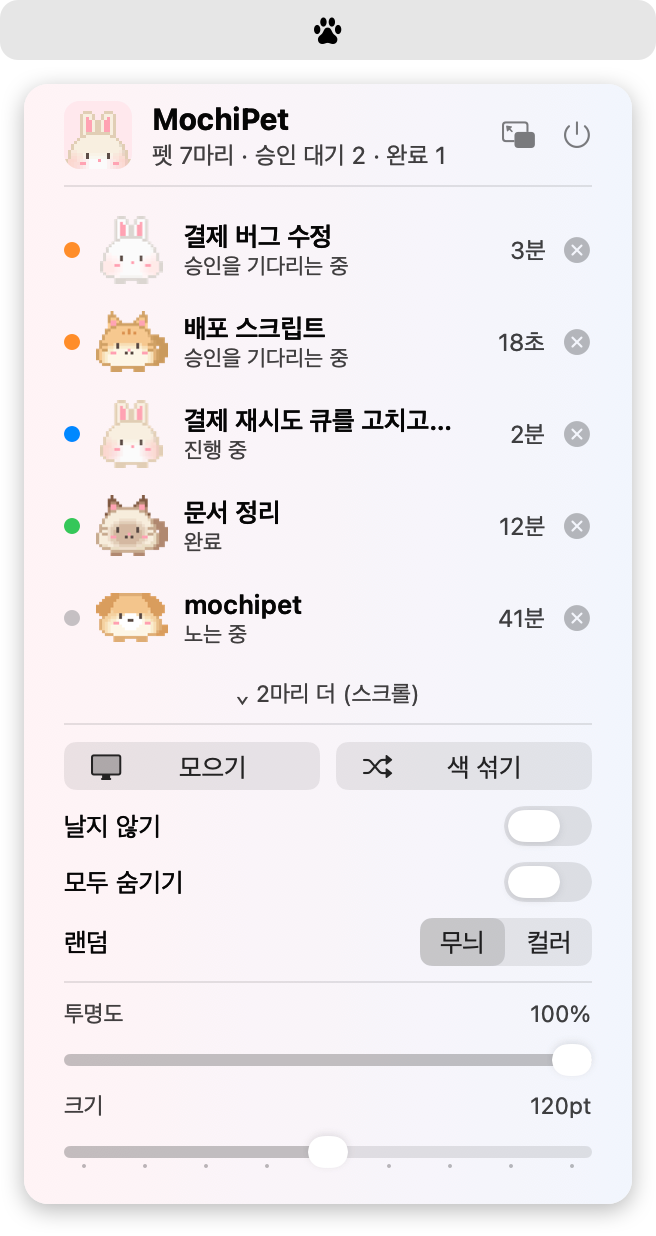
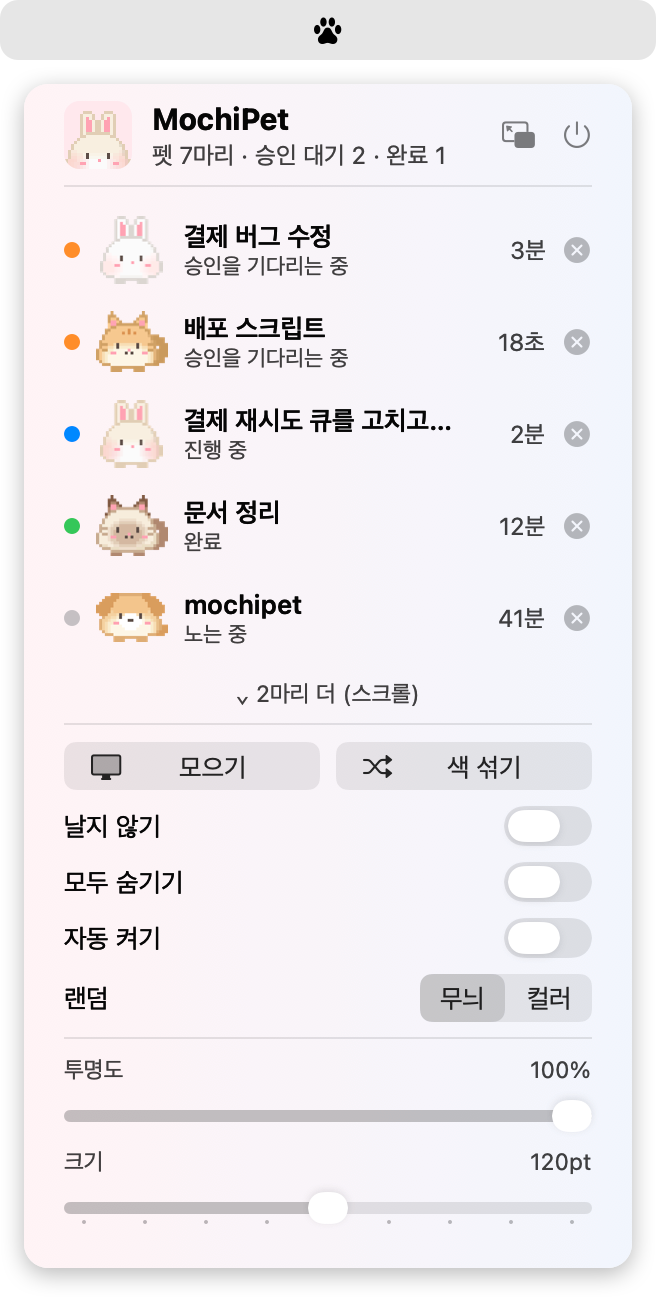
feat: 새 세션에 펫을 자동으로 켜는 스위치를 넣음
* 메뉴 막대에 "자동 켜기" 스위치를 넣음. 세션마다 /pet on 을 치지 않아도 되게 하려는 것이고, 기본은 꺼짐
* 스위치가 켜져 있으면 펫이 없는 세션의 첫 프롬프트(--hook working)에서 펫을 켬. 세션 시작 때 켜면 쓰지 않은 세션에도 펫이 생겨서 프롬프트를 기준으로 함
* /pet off 가 .off 표시를 남기게 함. 끈 세션이 다음 프롬프트에 다시 켜지지 않게 하려는 것이고, /pet on 과 세션 끝에서 지움
* 새 펫의 줄을 만드는 코드와 앱을 띄우는 코드를 newPet, launch 로 뺌. 스킬과 훅이 같이 씀
* README 기능 목록과 메뉴 막대 그림에 스위치를 반영함

diff --git a/Sources/main.swift b/Sources/main.swift
@@ -174,17 +174,14 @@ if let cmd = args.dropFirst().first, ["--on", "--off", "--color", "--name", "--k
     guard let f = file(env["CLAUDE_CODE_SESSION_ID"] ?? "") else {
         print(L("CLAUDE_CODE_SESSION_ID 가 없어서 어느 세션인지 알 수 없음", "CLAUDE_CODE_SESSION_ID is not set, so the session is unknown")); exit(1)
     }
-    if cmd == "--off" { try? fm.removeItem(at: f); print(L("펫 끔", "Pet off")); exit(0) }
+    // 끈 세션은 .off 표시를 남긴다. 자동으로 켜기가 다음 프롬프트에 다시 켜지 않게 한다 (이름에 점이 있어서 세션 파일로 읽히지 않는다)
+    let off = f.appendingPathExtension("off")
+    if cmd == "--off" { try? fm.removeItem(at: f); try? Data().write(to: off); print(L("펫 끔", "Pet off")); exit(0) }
     let name = value(after: "--name").map { String($0.replacingOccurrences(of: "\n", with: " ").prefix(30)) }
     var l = readSession(f)
     if l == nil {
         guard cmd == "--on" else { print(L("이 세션은 펫이 꺼져 있음. /pet on 을 먼저 해야 함", "This session has no pet. Run /pet on first")); exit(1) }
-        try fm.createDirectory(at: dir, withIntermediateDirectories: true)
-        // 스킬은 턴 도중에 불리므로 working 으로 시작한다
-        // 종류와 색을 무작위로 정한다. 종류를 먼저 뽑고, 그 종류가 쓰는 색 중에서 색을 뽑는다
-        // 다른 펫이 입은 색은 이름으로 견준다 (lookName). 기본 색은 종류마다 다른 무늬라서, 빈 줄끼리 같다고 보면 샴 고양이가 있다고 흰 토끼를 못 뽑는다
-        let others = sessionFiles().compactMap(readSession), kind = randomKind(used: others.map { $0[5] })
-        l = ["working", fm.currentDirectoryPath, host(env), randomLook(kind: kind, used: others.map { lookName($0[3], kind: $0[5]) }, colorFirst: colorFirst), "", kind]
+        l = newPet(cwd: fm.currentDirectoryPath)
     }
     if cmd == "--color" {
         let want = value(after: "--color")?.lowercased()
@@ -203,26 +200,45 @@ if let cmd = args.dropFirst().first, ["--on", "--off", "--color", "--name", "--k
     }
     if let n = name { l![4] = n }
     writeSession(f, l!)
-    if cmd == "--on" {              // 펫 앱이 안 떠 있으면 띄운다 (-g: 앞으로 가져오지 않는다)
-        let open = Process()
-        open.executableURL = URL(fileURLWithPath: "/usr/bin/open")
-        open.arguments = ["-g", Bundle.main.bundleURL.path]
-        try open.run(); open.waitUntilExit()
-    }
+    if cmd == "--on" { try? fm.removeItem(at: off); launch() }
     print(["--on": L("펫 켬", "Pet on"), "--color": L("색 바꿈", "Color changed"), "--name": L("이름 바꿈", "Name changed"), "--kind": L("종류 바꿈", "Kind changed")][cmd]!); exit(0)
 }
 
 if args.count >= 3, args[1] == "--hook" {
     let j = (try? JSONSerialization.jsonObject(with: FileHandle.standardInput.readDataToEndOfFile())) as? [String: Any]
     // 펫을 켠 세션만 건드린다. 훅은 stdout 이 대화에 섞일 수 있어서 아무것도 찍지 않는다.
-    guard let f = file(j?["session_id"] as? String ?? ""), var l = readSession(f) else { exit(0) }
-    if args[2] == "end" { try? fm.removeItem(at: f); exit(0) }
+    guard let f = file(j?["session_id"] as? String ?? "") else { exit(0) }
+    let off = f.appendingPathExtension("off")
+    if args[2] == "end" { try? fm.removeItem(at: f); try? fm.removeItem(at: off); exit(0) }
+    var l: [String]
+    if let old = readSession(f) { l = old }
+    // 자동으로 켜기: 펫이 없는 세션에 첫 프롬프트가 들어오면 켠다. /pet off 로 끈 세션은 그대로 둔다.
+    // 세션이 시작될 때(SessionStart) 켜지 않는 까닭은, 쓰지도 않은 세션에 펫이 생기기 때문이다
+    else if args[2] == "working", setting("autoOn") as? Bool == true, !fm.fileExists(atPath: off.path) {
+        l = newPet(cwd: j?["cwd"] as? String ?? fm.currentDirectoryPath); launch()
+    } else { exit(0) }
     // resume 은 도구가 끝날 때마다 불린다. 승인을 기다리던 중이었을 때만 working 으로 되돌린다.
     if args[2] == "resume" && l[0] != "waiting" { exit(0) }
     l[0] = args[2] == "resume" ? "working" : args[2]
     // 훅이 알려 주는 세션 기록 파일의 경로를 일곱째 줄에 적어 둔다. 펫 앱이 거기서 세션 제목을 읽는다 (transcriptTitle)
     if let t = j?["transcript_path"] as? String, !t.contains("\n") { l = Array(l.prefix(6)) + [t] }
     writeSession(f, l); exit(0)
+}
+
+// 새 펫의 세션 파일 줄. 프롬프트를 받은 턴 도중에 켜지므로 working 으로 시작한다
+// 종류와 색을 무작위로 정한다. 종류를 먼저 뽑고, 그 종류가 쓰는 색 중에서 색을 뽑는다
+// 다른 펫이 입은 색은 이름으로 견준다 (lookName). 기본 색은 종류마다 다른 무늬라서, 빈 줄끼리 같다고 보면 샴 고양이가 있다고 흰 토끼를 못 뽑는다
+func newPet(cwd: String) -> [String] {
+    try? fm.createDirectory(at: dir, withIntermediateDirectories: true)
+    let others = sessionFiles().compactMap(readSession), kind = randomKind(used: others.map { $0[5] })
+    return ["working", cwd, host(env), randomLook(kind: kind, used: others.map { lookName($0[3], kind: $0[5]) }, colorFirst: colorFirst), "", kind]
+}
+// 펫 앱이 안 떠 있으면 띄운다 (-g: 앞으로 가져오지 않는다)
+func launch() {
+    let open = Process()
+    open.executableURL = URL(fileURLWithPath: "/usr/bin/open")
+    open.arguments = ["-g", Bundle.main.bundleURL.path]
+    try? open.run(); open.waitUntilExit()
 }
 
 // 세션 파일 셋째 줄에 적을 값. Claude Desktop에서 켰으면 데스크톱 세션 id 이고,
@@ -694,7 +710,7 @@ final class Bar: NSObject, NSWindowDelegate, NSMenuDelegate {
     let floatPad: CGFloat = 62                              // 띄운 창에서 목록 말고 위아래가 차지하는 높이: 제목 막대 쪽 48 + 아래 여백 14
     var floating = false                                    // 띄운 창이 떠 있는지
     lazy var floatButton = NSButton(image: symbol("pip.exit"), target: self, action: #selector(toggleFloat))
-    let ground = NSSwitch(), hide = NSSwitch(), random = NSSegmentedControl(labels: [L("무늬", "Patterns"), L("컬러", "Colors")], trackingMode: .selectOne, target: nil, action: nil)
+    let ground = NSSwitch(), hide = NSSwitch(), auto = NSSwitch(), random = NSSegmentedControl(labels: [L("무늬", "Patterns"), L("컬러", "Colors")], trackingMode: .selectOne, target: nil, action: nil)
 
     override init() {
         super.init()
@@ -746,9 +762,10 @@ final class Bar: NSObject, NSWindowDelegate, NSMenuDelegate {
         let buttons = NSStackView(views: [gatherAll, mix]); buttons.distribution = .fillEqually; buttons.spacing = 8
         add(buttons)
         ground.target = self; ground.action = #selector(toggleGrounded); hide.target = self; hide.action = #selector(toggleHidden)
+        auto.target = self; auto.action = #selector(toggleAuto)
         random.target = self; random.action = #selector(setRandom(_:))
-        for c in [ground, hide] as [NSControl] { c.controlSize = .small }
-        add(line(text(L("날지 않기", "No flying")), ground)); add(line(text(L("모두 숨기기", "Hide all")), hide)); add(line(text(L("랜덤", "Random")), random)); add(rule())
+        for c in [ground, hide, auto] as [NSControl] { c.controlSize = .small }
+        add(line(text(L("날지 않기", "No flying")), ground)); add(line(text(L("모두 숨기기", "Hide all")), hide)); add(line(text(L("자동 켜기", "Auto-on")), auto)); add(line(text(L("랜덤", "Random")), random)); add(rule())
 
         // 투명도와 크기. steps 를 주면 그 수만큼의 눈금에만 멈춘다
         func bar(_ title: String, _ range: ClosedRange<Double>, _ action: Selector, steps: Int = 0, now: @escaping () -> Double, say: @escaping () -> String) {
@@ -865,7 +882,7 @@ final class Bar: NSObject, NSWindowDelegate, NSMenuDelegate {
 
     func refresh() {
         for s in sliders { s.view.doubleValue = s.now(); s.text.stringValue = s.say() }
-        ground.state = grounded ? .on : .off; hide.state = hidden ? .on : .off; random.selectedSegment = colorFirst ? 1 : 0
+        ground.state = grounded ? .on : .off; hide.state = hidden ? .on : .off; auto.state = setting("autoOn") as? Bool == true ? .on : .off; random.selectedSegment = colorFirst ? 1 : 0
         item.button?.appearsDisabled = hidden                // 숨긴 동안은 아이콘이 흐리다
         floatButton.contentTintColor = floating ? .controlAccentColor : nil
         allPets.forEach { $0.applyLook() }
@@ -904,6 +921,8 @@ final class Bar: NSObject, NSWindowDelegate, NSMenuDelegate {
     // 세션 파일을 고친 뒤에 부른다. 다음 틱을 기다리지 않고 펫과 판의 목록에 바로 반영한다 (기다리면 최대 1.5초 늦다)
     func catchUp() { sessions.sync(); poll() }
     @objc func toggleHidden() { hidden.toggle(); refresh() }
+    // 자동으로 켜기: 켜 두면 펫이 없는 세션에 첫 프롬프트가 들어올 때 펫이 켜진다 (--hook working)
+    @objc func toggleAuto() { setSetting("autoOn", auto.state == .on) }
     // 날지 않기: 펫이 바닥에만 있는다. 날기, 날아 내려오기, 풍선 타기, 창 타고 오르기를 고르지 않고 창 위에도 서지 않는다 (Pet.swift 의 grounded).
     // 켜는 순간 떠 있거나 매달려 있던 펫은 바로 떨어지고, 창 위에 서 있던 펫은 다음 틱에 떨어진다
     @objc func toggleGrounded() {

diff --git a/README.ko.md b/README.ko.md
@@ -26,6 +26,7 @@
 - **세 종류의 도트 펫**: 토끼, 강아지, 고양이에 무늬와 컬러를 입힙니다.
 - **혼자 놀기**: 할 일이 없으면 걷고, 자고, 낚시하고, 풍선을 탑니다.
 - **메뉴 막대 조절**: 투명도와 크기를 바꾸고, 날지 않게 하거나 모두 숨깁니다.
+- **자동으로 켜기**: 메뉴 막대에서 "자동 켜기"를 켜 두면, `/pet on` 없이도 세션에 첫 프롬프트를 보낼 때 펫이 켜집니다. `/pet off` 로 끈 세션은 꺼진 채로 둡니다.
 - **띄워 두는 세션 목록**: 메뉴 막대의 세션 목록을 작은 창으로 띄워 둡니다. 다른 창과 전체화면 위에 보입니다.
 
 ## 설치

diff --git a/README.md b/README.md
@@ -26,6 +26,7 @@
 - **Three pixel-art pets**: a bunny, a dog, and a cat, each in several patterns and colors.
 - **Plays on its own**: when idle, it walks, naps, fishes, rides a balloon, and more.
 - **Menu bar controls**: change opacity and size, keep pets on the ground, or hide them all.
+- **Auto-on**: turn on "Auto-on" in the menu bar, and a pet appears when you send the first prompt in a session, without `/pet on`. A session you turned off with `/pet off` stays off.
 - **Floating session list**: pop the session list out of the menu bar into a small window that stays above other windows, including full-screen ones.
 
 ## Install
